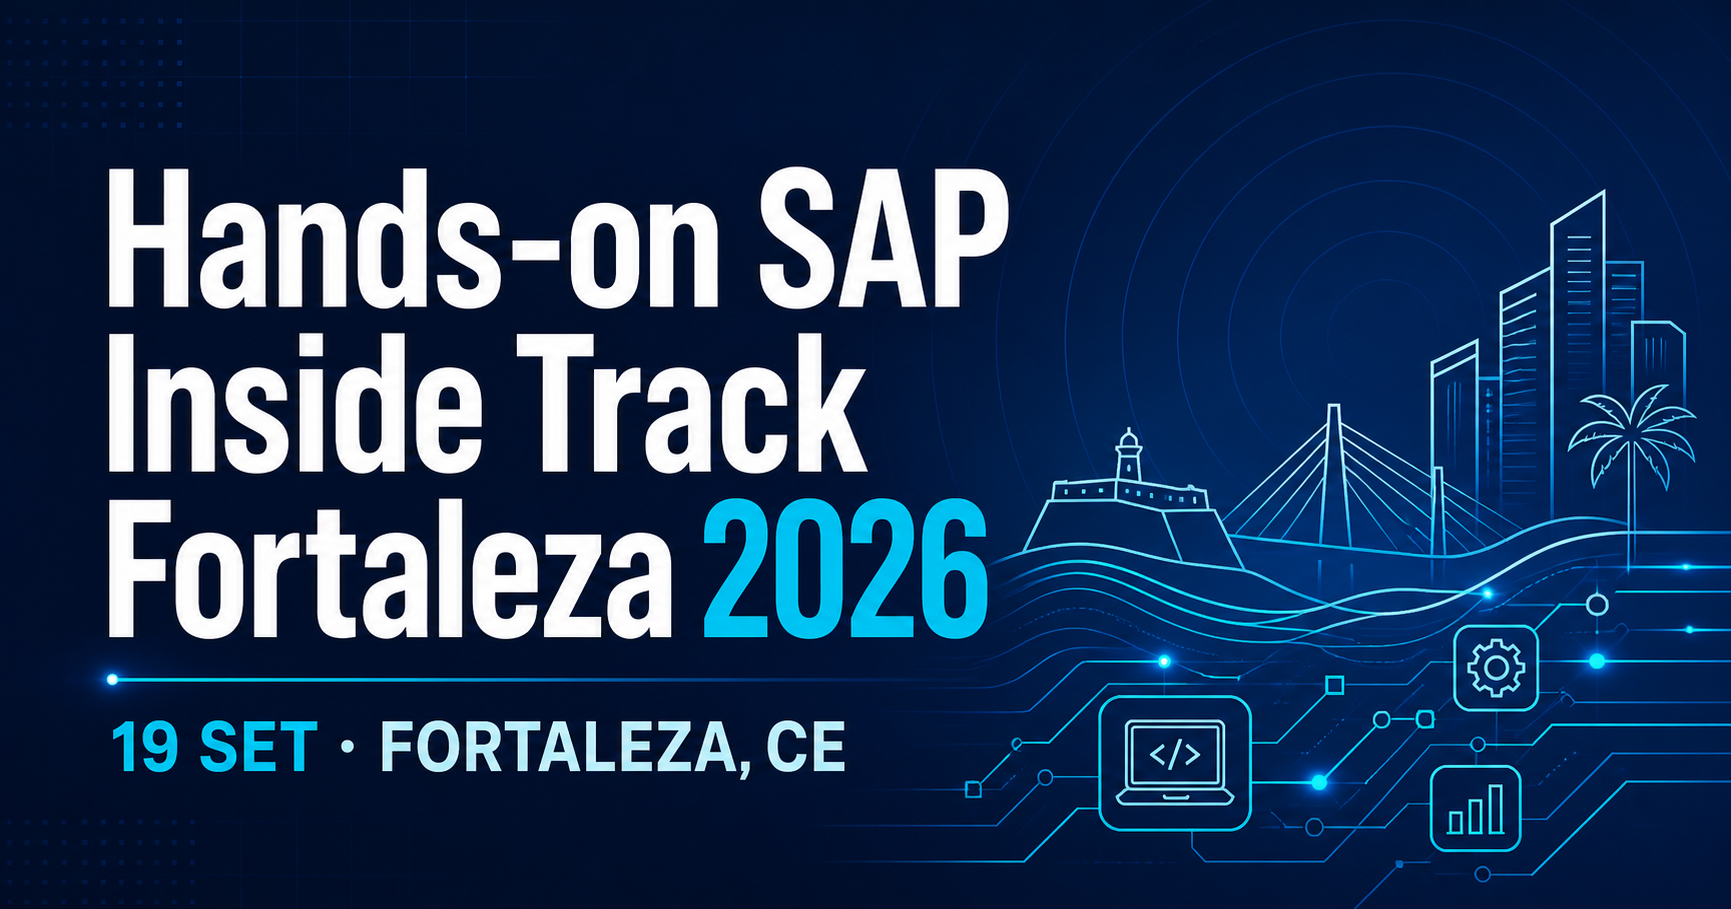
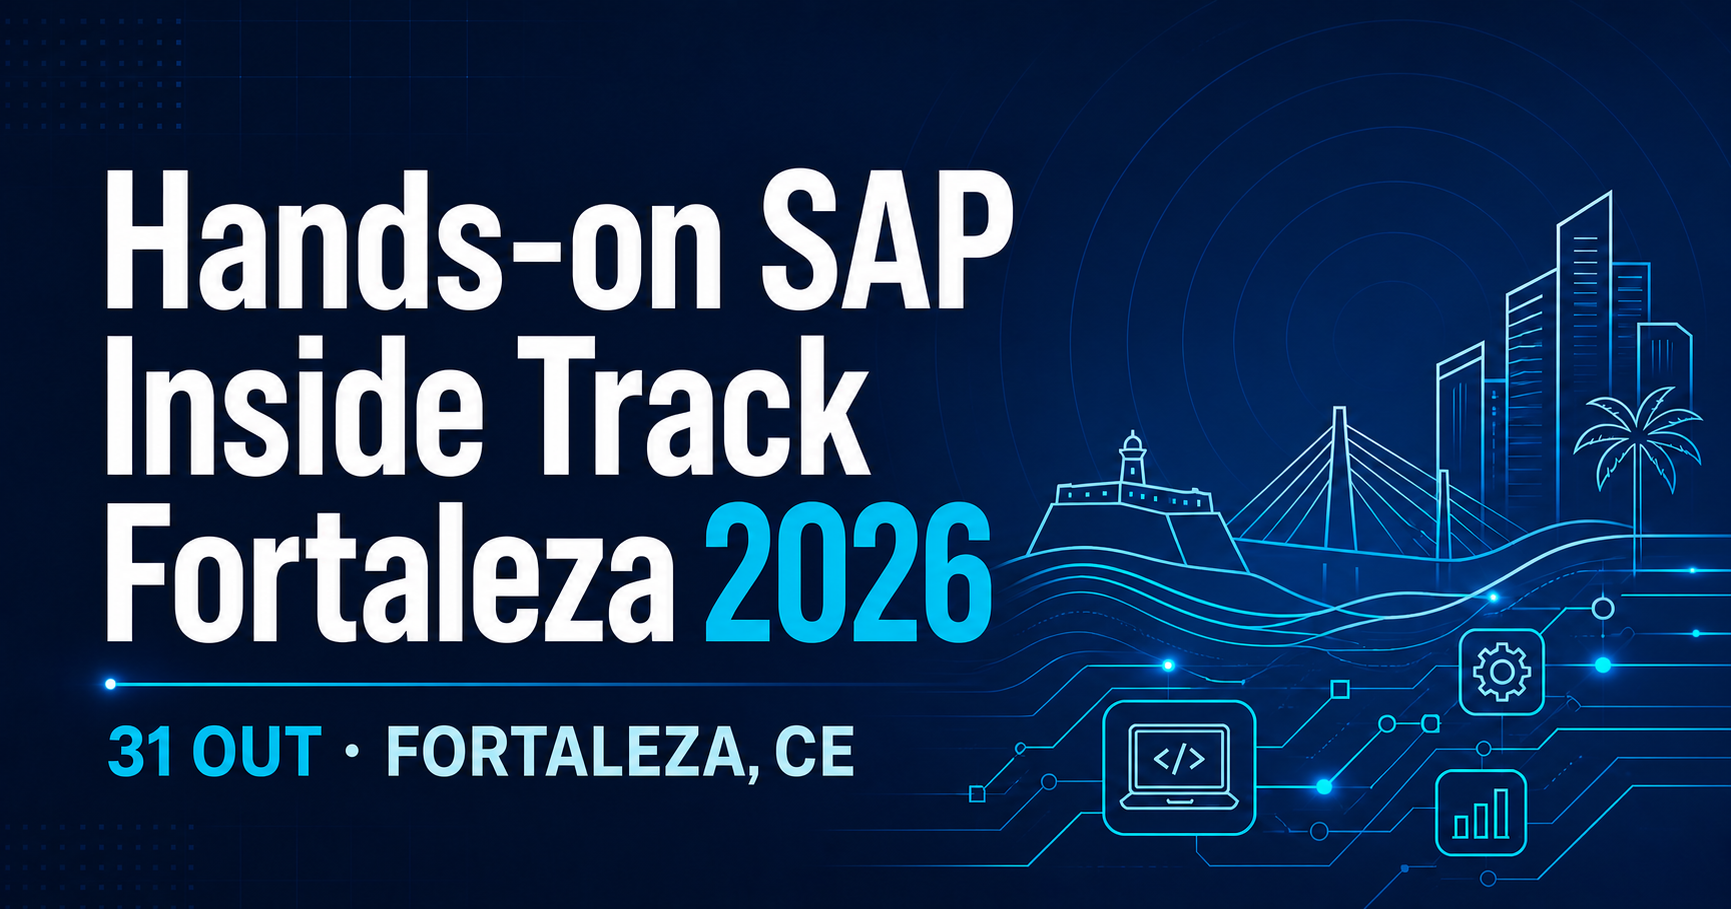
Update event date to October 31

diff --git a/app/admin/page.tsx b/app/admin/page.tsx
@@ -69,8 +69,8 @@ export default function AdminDashboard() {
     {message && <StatusMessage kind={message.kind}>{message.text}</StatusMessage>}
     <section className="metric-grid">{Object.entries(labels).map(([key, label]) => <article key={key}><span>{label}</span><strong>{Number(data.metrics[key] ?? 0)}</strong></article>)}</section>
     <div className="admin-columns"><section className="admin-card"><span className="eyebrow">PARTICIPANTES</span><h2>Importar lista</h2><p>Envie CSV ou XLSX com as colunas Nome e E-mail. Limite de 5 MB.</p><form onSubmit={importFile}><label className="file-field">Arraste ou selecione o arquivo<input name="file" type="file" accept=".csv,.xlsx" required /></label><button className="primary-button">Importar participantes</button></form></section>
-    <section className="admin-card"><span className="eyebrow">PROGRAMAÇÃO</span><h2>Novo Hands-on</h2><form className="workshop-form" onSubmit={addWorkshop}><label>Título<input name="title" required /></label><label>Instrutor<input name="instructor" required /></label><label>Data e hora<input name="startsAt" type="datetime-local" required /></label><label>Sala<input name="room" required /></label><label>Capacidade<input name="capacity" type="number" min="1" required /></label><label className="full">Descrição<textarea name="description" required rows={3} /></label><button className="primary-button full">Adicionar Hands-on</button></form></section></div>
-    <section className="admin-card table-card"><div className="table-heading"><div><span className="eyebrow">SESSÕES</span><h2>Hands-on cadastrados</h2></div></div><div className="table-wrap"><table><thead><tr><th>Hands-on</th><th>Horário</th><th>Sala</th><th>Ocupação</th><th>Estado</th><th>Ações</th></tr></thead><tbody>{data.workshops.map((workshop) => <tr key={workshop.id}><td><b>{workshop.title}</b><small>{workshop.instructor}</small></td><td>{new Date(workshop.startsAt).toLocaleString("pt-BR")}</td><td>{workshop.room}</td><td>{workshop.registrations}/{workshop.capacity}</td><td><span className={`availability ${workshop.active ? "" : "sold-out"}`}>{workshop.active ? "Ativo" : "Inativo"}</span></td><td><div className="row-actions"><button onClick={() => editWorkshop(workshop)}>Editar</button><button onClick={() => updateWorkshop(workshop, { active: workshop.active ? 0 : 1 })}>{workshop.active ? "Desativar" : "Ativar"}</button><button className="danger-button" onClick={() => deleteWorkshop(workshop)}>Excluir</button></div></td></tr>)}</tbody></table></div></section>
+    <section className="admin-card"><span className="eyebrow">PROGRAMAÇÃO</span><h2>Novo Hands-on</h2><form className="workshop-form" onSubmit={addWorkshop}><label>Título<input name="title" required /></label><label>Instrutor<input name="instructor" required /></label><label>Data<input name="startsAt" type="date" defaultValue="2026-10-31" required /></label><label>Sala<input name="room" required /></label><label>Capacidade<input name="capacity" type="number" min="1" required /></label><label className="full">Descrição<textarea name="description" required rows={3} /></label><button className="primary-button full">Adicionar Hands-on</button></form></section></div>
+    <section className="admin-card table-card"><div className="table-heading"><div><span className="eyebrow">SESSÕES</span><h2>Hands-on cadastrados</h2></div></div><div className="table-wrap"><table><thead><tr><th>Hands-on</th><th>Data</th><th>Sala</th><th>Ocupação</th><th>Estado</th><th>Ações</th></tr></thead><tbody>{data.workshops.map((workshop) => <tr key={workshop.id}><td><b>{workshop.title}</b><small>{workshop.instructor}</small></td><td>31/10/2026</td><td>{workshop.room}</td><td>{workshop.registrations}/{workshop.capacity}</td><td><span className={`availability ${workshop.active ? "" : "sold-out"}`}>{workshop.active ? "Ativo" : "Inativo"}</span></td><td><div className="row-actions"><button onClick={() => editWorkshop(workshop)}>Editar</button><button onClick={() => updateWorkshop(workshop, { active: workshop.active ? 0 : 1 })}>{workshop.active ? "Desativar" : "Ativar"}</button><button className="danger-button" onClick={() => deleteWorkshop(workshop)}>Excluir</button></div></td></tr>)}</tbody></table></div></section>
     <section className="admin-card table-card"><span className="eyebrow">INSCRIÇÕES</span><h2>Participantes confirmados</h2><div className="table-wrap"><table><thead><tr><th>Participante</th><th>Hands-on</th><th>Data</th><th>Ação</th></tr></thead><tbody>{data.registrations.map((registration) => <tr key={registration.id}><td><b>{registration.name}</b><small>{registration.email}</small></td><td>{registration.workshop}</td><td>{new Date(registration.createdAt).toLocaleString("pt-BR")}</td><td><button className="danger-button" onClick={() => removeRegistration(registration.id)}>Cancelar</button></td></tr>)}</tbody></table></div></section>
   </main>;
 }

diff --git a/app/components/PublicRegistration.tsx b/app/components/PublicRegistration.tsx
@@ -47,11 +47,11 @@ export function PublicRegistration() {
   return <main className="public-shell">
     <header className="site-header"><a className="brand" href="#top" aria-label="Início"><span className="brand-mark">H</span><span>SIT Fortaleza <small>2026</small></span></a><a className="admin-link" href="/admin/login">Acesso da organização <span aria-hidden="true">↗</span></a></header>
     <section className="hero" id="top">
-      <div className="hero-copy"><span className="eyebrow">19 SET · FORTALEZA, CE</span><h1>Hands-on <em>SAP Inside Track</em> Fortaleza 2026</h1><p>Reserve seu lugar em uma sessão prática, conecte-se com a comunidade e aprenda construindo.</p><div className="steps" aria-label="Etapas"><span className={participant ? "done" : "active"}>01 <b>Identificação</b></span><span className={workshops.length ? "active" : ""}>02 <b>Escolha</b></span><span className={registration ? "active" : ""}>03 <b>Confirmação</b></span></div></div>
+      <div className="hero-copy"><span className="eyebrow">31 OUT · FORTALEZA, CE</span><h1>Hands-on <em>SAP Inside Track</em> Fortaleza 2026</h1><p>Reserve seu lugar em uma sessão prática, conecte-se com a comunidade e aprenda construindo.</p><div className="steps" aria-label="Etapas"><span className={participant ? "done" : "active"}>01 <b>Identificação</b></span><span className={workshops.length ? "active" : ""}>02 <b>Escolha</b></span><span className={registration ? "active" : ""}>03 <b>Confirmação</b></span></div></div>
       <div className="registration-panel">
         {!participant && !registration && <><span className="panel-number">01</span><h2>Vamos encontrar sua inscrição</h2><p>Use o mesmo e-mail da sua inscrição no evento.</p><form onSubmit={checkEmail}><label htmlFor="email">E-mail da inscrição</label><input id="email" type="email" required autoComplete="email" placeholder="voce@empresa.com" value={email} onChange={(event) => setEmail(event.target.value)} /><button className="primary-button" disabled={loading}>{loading ? "Verificando…" : "Verificar minha inscrição"}<span aria-hidden="true">→</span></button></form></>}
         {participant && workshops.length > 0 && <><span className="panel-number">02</span><h2>Olá, {participant.name.split(" ")[0]}! Escolha seu Hands-on</h2><p>Você pode reservar uma única sessão. Confira horário e sala antes de confirmar.</p></>}
-        {registration && <><span className="confirmation-mark" aria-hidden="true">✓</span><span className="eyebrow">INSCRIÇÃO CONFIRMADA</span><h2>Seu Hands-on está reservado.</h2><div className="confirmation-card"><h3>{registration.title}</h3><p>{registration.instructor}</p><p>{new Intl.DateTimeFormat("pt-BR", { dateStyle: "long", timeStyle: "short", timeZone: "America/Fortaleza" }).format(new Date(registration.startsAt))}</p><b>{registration.room}</b></div><button className="text-button" onClick={() => { setParticipant(null); setRegistration(null); setEmail(""); }}>Consultar outro e-mail</button></>}
+        {registration && <><span className="confirmation-mark" aria-hidden="true">✓</span><span className="eyebrow">INSCRIÇÃO CONFIRMADA</span><h2>Seu Hands-on está reservado.</h2><div className="confirmation-card"><h3>{registration.title}</h3><p>{registration.instructor}</p><p>31 de outubro de 2026</p><b>{registration.room}</b></div><button className="text-button" onClick={() => { setParticipant(null); setRegistration(null); setEmail(""); }}>Consultar outro e-mail</button></>}
         {message && <StatusMessage kind="error">{message}</StatusMessage>}
       </div>
     </section>

diff --git a/app/lib/runtime.ts b/app/lib/runtime.ts
@@ -45,11 +45,11 @@ export async function ensureDatabase(db: D1Database): Promise<void> {
   if (Number(count?.total ?? 0) === 0) {
     await db.batch([
       db.prepare("INSERT INTO workshops (title, description, instructor, starts_at, room, capacity) VALUES (?, ?, ?, ?, ?, ?)")
-        .bind("SAP Build Apps: do zero ao protótipo", "Crie uma experiência empresarial responsiva usando recursos low-code.", "Marina Alves", "2026-09-19T10:30:00-03:00", "Sala Iracema", 30),
+        .bind("SAP Build Apps: do zero ao protótipo", "Crie uma experiência empresarial responsiva usando recursos low-code.", "Marina Alves", "2026-10-31", "Sala Iracema", 30),
       db.prepare("INSERT INTO workshops (title, description, instructor, starts_at, room, capacity) VALUES (?, ?, ?, ?, ?, ?)")
-        .bind("Integrações inteligentes com SAP BTP", "Conecte serviços, eventos e APIs em um fluxo prático na SAP BTP.", "Rafael Moura", "2026-09-19T10:30:00-03:00", "Sala Jangada", 24),
+        .bind("Integrações inteligentes com SAP BTP", "Conecte serviços, eventos e APIs em um fluxo prático na SAP BTP.", "Rafael Moura", "2026-10-31", "Sala Jangada", 24),
       db.prepare("INSERT INTO workshops (title, description, instructor, starts_at, room, capacity) VALUES (?, ?, ?, ?, ?, ?)")
-        .bind("Clean Core na prática", "Aplique extensibilidade e boas decisões de arquitetura em um cenário S/4HANA.", "Camila Nogueira", "2026-09-19T14:00:00-03:00", "Sala Dragão do Mar", 20),
+        .bind("Clean Core na prática", "Aplique extensibilidade e boas decisões de arquitetura em um cenário S/4HANA.", "Camila Nogueira", "2026-10-31", "Sala Dragão do Mar", 20),
     ]);
   }
 }

diff --git a/app/components/WorkshopCard.tsx b/app/components/WorkshopCard.tsx
@@ -4,10 +4,9 @@ export function WorkshopCard({ workshop, selected, onSelect }: { workshop: Works
   const registrations = Number(workshop.registrations);
   const remaining = Math.max(0, workshop.capacity - registrations);
   const soldOut = remaining === 0;
-  const date = new Intl.DateTimeFormat("pt-BR", { dateStyle: "short", timeStyle: "short", timeZone: "America/Fortaleza" }).format(new Date(workshop.startsAt));
   return (
     <button type="button" className={`workshop-card ${selected ? "selected" : ""}`} onClick={onSelect} disabled={soldOut} aria-pressed={selected}>
-      <div className="card-top"><span className={`availability ${soldOut ? "sold-out" : ""}`}>{soldOut ? "Esgotado" : `${remaining} vagas`}</span><span>{date}</span></div>
+      <div className="card-top"><span className={`availability ${soldOut ? "sold-out" : ""}`}>{soldOut ? "Esgotado" : `${remaining} vagas`}</span><span>31/10/2026</span></div>
       <h3>{workshop.title}</h3><p>{workshop.description}</p>
       <div className="workshop-meta"><span><b>Instrutor</b>{workshop.instructor}</span><span><b>Sala</b>{workshop.room}</span></div>
       <div className="capacity"><span style={{ width: `${Math.min(100, (registrations / workshop.capacity) * 100)}%` }} /></div>

diff --git a/docs/superpowers/plans/2026-08-06-event-date-correction.md b/docs/superpowers/plans/2026-08-06-event-date-correction.md
@@ -1,0 +1,97 @@
+# Event Date Correction Implementation Plan
+
+> **For agentic workers:** REQUIRED SUB-SKILL: Use superpowers:subagent-driven-development (recommended) or superpowers:executing-plans to implement this plan task-by-task. Steps use checkbox (`- [ ]`) syntax for tracking.
+
+**Goal:** Corrigir o evento para 31 de outubro de 2026 e remover horários dos Hands-on de todas as interfaces.
+
+**Architecture:** Preservar o campo persistido `starts_at` para compatibilidade, gravando datas demonstrativas como `2026-10-31`. Tratar esse valor como data na interface e remover qualquer formatação ou entrada de horário. Atualizar o card social e publicar uma nova versão privada do Site existente.
+
+**Tech Stack:** TypeScript, React, Vinext, Cloudflare D1, Node Test, Vitest, Sites.
+
+## Global Constraints
+
+- Data do evento: `31 de outubro de 2026`.
+- Destaque curto: `31 OUT · FORTALEZA, CE`.
+- Nenhuma interface pública ou administrativa informa horário dos Hands-on.
+- O esquema do banco e as regras de inscrição permanecem inalterados.
+
+---
+
+### Task 1: Proteção por teste e atualização da data
+
+**Files:**
+- Modify: `tests/rendered-html.test.mjs`
+- Modify: `app/components/PublicRegistration.tsx`
+- Modify: `app/components/WorkshopCard.tsx`
+- Modify: `app/lib/runtime.ts`
+- Modify: `app/admin/page.tsx`
+
+**Interfaces:**
+- Consumes: campo existente `startsAt: string`.
+- Produces: interface que apresenta somente a data do evento e nunca apresenta horários de Hands-on.
+
+- [ ] **Step 1: Escrever teste falho**
+
+Adicionar ao teste renderizado asserções de que `31 OUT · FORTALEZA, CE` aparece e `19 SET`, `2026-09-19`, `10:30` e `14:00` não aparecem.
+
+- [ ] **Step 2: Confirmar a falha**
+
+Run: `npm run test:render`
+Expected: FAIL porque a página ainda apresenta `19 SET`.
+
+- [ ] **Step 3: Implementar a correção mínima**
+
+Atualizar o destaque para `31 OUT`; usar `2026-10-31` nos dados iniciais; remover a data/hora dos cards e confirmações; trocar `datetime-local` por `date`; apresentar somente data no painel.
+
+- [ ] **Step 4: Confirmar aprovação**
+
+Run: `npm run test:render`
+Expected: PASS.
+
+### Task 2: Card social e verificação completa
+
+**Files:**
+- Replace: `public/og.png`
+
+**Interfaces:**
+- Consumes: identidade visual e título existentes.
+- Produces: card social com o texto exato `31 OUT · FORTALEZA, CE`, sem horário.
+
+- [ ] **Step 1: Gerar um único card social atualizado**
+
+Usar ImageGen com o título exato do evento e a nova data, preservando a paleta azul/ciano e sem logotipos.
+
+- [ ] **Step 2: Validar o texto da imagem e substituir o ativo**
+
+Conferir visualmente os dois textos e salvar em `public/og.png`.
+
+- [ ] **Step 3: Executar verificação integral**
+
+Run: `npm test -- --run && npm run lint && npx tsc --noEmit && npm run build && node --test tests/rendered-html.test.mjs`
+Expected: todos os comandos encerram com código 0.
+
+- [ ] **Step 4: Confirmar remoção da data antiga**
+
+Run: `rg -n "19 SET|2026-09-19|10:30|14:00" app tests README.md`
+Expected: nenhuma ocorrência relacionada aos Hands-on.
+
+### Task 3: Publicação
+
+**Files:**
+- Reuse: `.openai/hosting.json`
+
+**Interfaces:**
+- Consumes: build validado e projeto Sites existente.
+- Produces: nova versão privada no mesmo endereço.
+
+- [ ] **Step 1: Commitar o estado validado**
+
+Run: `git add . && git commit -m "Update event date to October 31"`
+
+- [ ] **Step 2: Enviar, empacotar e salvar nova versão**
+
+Usar a credencial temporária do repositório Sites e o script oficial `package-site.sh`.
+
+- [ ] **Step 3: Publicar privadamente e acompanhar até o estado terminal**
+
+Expected: implantação `succeeded` e URL de produção preservada.
